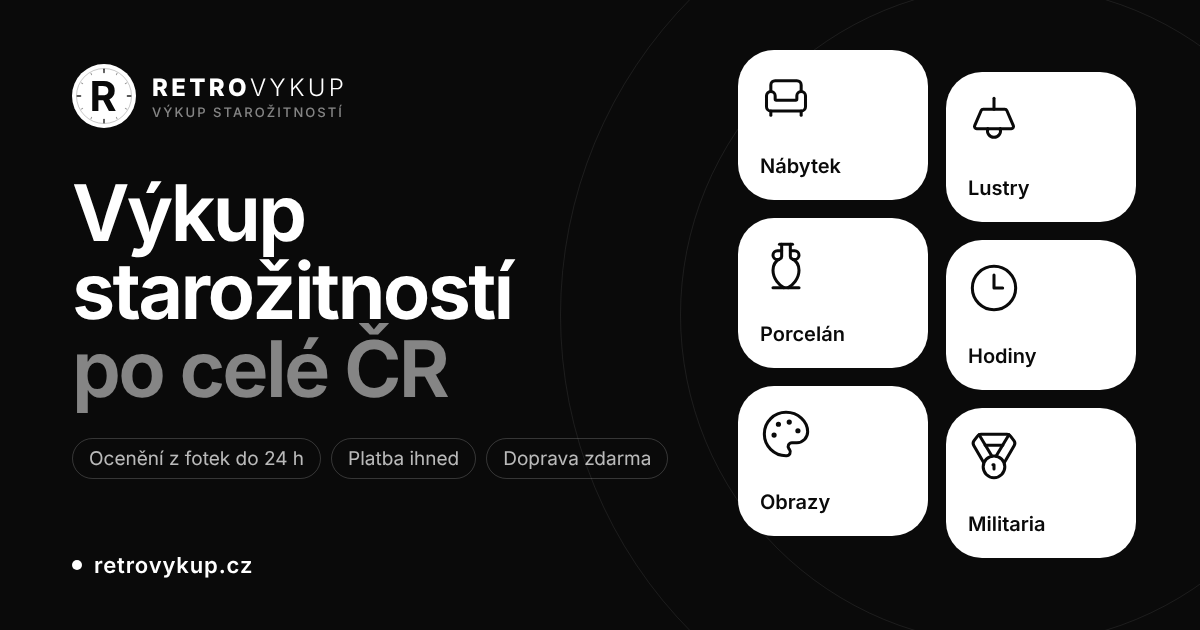
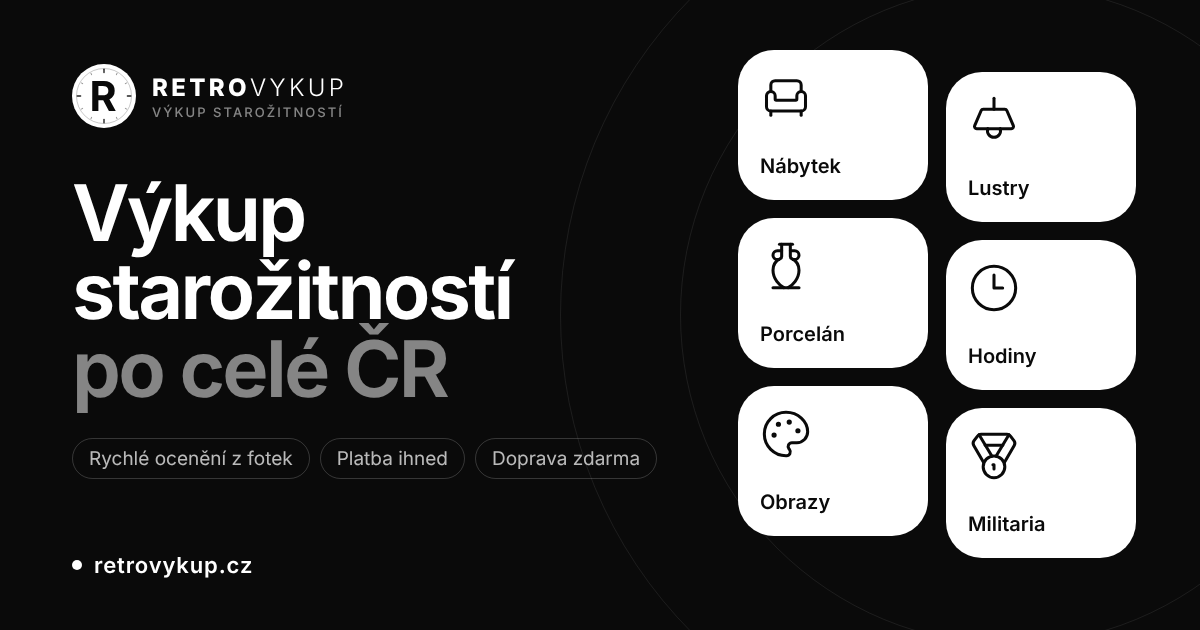
SEO a texty: bez „do 24 h“, nový titulek úvodu, doprava „přijedeme, nebo objednáme dopravu“
- Odstraněny všechny zmínky 24 h / 24 hodin (web, SEO popisy, manifest, og.png, brand kit)
- Titulek úvodu: Retrovykup.cz – výkup starožitností a retro. Snadno a rychle.
- Hero a popisy: Přijedeme si pro věci, nebo objednáme dopravu a vy jen zabalíte. Snadno a rychle.
- Texty měst a služeb sjednoceny („obratem“, „rychle“)

Claude-Session: https://claude.ai/code/session_018xVfVsJKPsHNQKo2b1Q4vg

Changed region(s): [[0.0617, 0.6937, 0.555, 0.754]]

diff --git a/src/data/cities.ts b/src/data/cities.ts
@@ -26,7 +26,7 @@ export const cities: City[] = [
     lat: 50.0755,
     lon: 14.4378,
     intro:
-      'Vykupujeme starožitnosti a retro předměty v celé Praze — z bytů po prarodičích, vil, půd i sklepů. Pošlete fotky, do 24 hodin máte nabídku a my si pro věci přijedeme.',
+      'Vykupujeme starožitnosti a retro předměty v celé Praze — z bytů po prarodičích, vil, půd i sklepů. Pošlete fotky a obratem máte nabídku. Přijedeme si pro věci, nebo objednáme dopravu a vy jen zabalíte. Snadno a rychle.',
     local: {
       title: 'Pražské byty skrývají poklady',
       text: 'Činžovní domy na Vinohradech, vily v Dejvicích nebo Bubenči i paneláky ze 70. let — každá pražská domácnost má jiný příběh. Často vykupujeme starožitný nábytek, obrazy, lustry, broušené sklo a design z období socialismu, který dnes zažívá velký návrat.',
@@ -54,7 +54,7 @@ export const cities: City[] = [
     lat: 49.1951,
     lon: 16.6068,
     intro:
-      'Výkup starožitností v Brně a okolí rychle a férově. Stačí pár fotek — ocenění pošleme do 24 hodin a pro předměty si přijedeme kamkoliv v Brně.',
+      'Výkup starožitností v Brně a okolí rychle a férově. Stačí pár fotek a obratem máte ocenění. Přijedeme si pro věci, nebo objednáme dopravu a vy jen zabalíte. Snadno a rychle.',
     local: {
       title: 'Brno — město funkcionalismu',
       text: 'Brno je proslulé funkcionalistickou architekturou a moravskou tradicí ohýbaného nábytku. Rádi vykoupíme thonetky, funkcionalistické kusy, chromový nábytek, keramiku i obrazy moravských autorů.',
@@ -82,7 +82,7 @@ export const cities: City[] = [
     lat: 49.8209,
     lon: 18.2625,
     intro:
-      'Výkup starožitností a retro předmětů v Ostravě a celém Moravskoslezském kraji. Ocenění z fotek do 24 hodin, vyzvednutí u vás doma a platba ihned.',
+      'Výkup starožitností a retro předmětů v Ostravě a celém Moravskoslezském kraji. Rychlé ocenění z fotek a platba ihned. Přijedeme si pro věci, nebo objednáme dopravu a vy jen zabalíte. Snadno a rychle.',
     local: {
       title: 'Hornická a průmyslová tradice',
       text: 'Ostrava žije průmyslovou historií. Vedle klasických starožitností rádi vykoupíme hornické a hutnické předměty, odznaky, militaria, retro elektroniku a nábytek ze sorely i z pozdějších desetiletí.',
@@ -110,7 +110,7 @@ export const cities: City[] = [
     lat: 49.7384,
     lon: 13.3736,
     intro:
-      'Výkup starožitností v Plzni a okolí. Pošlete fotky předmětů, do 24 hodin dostanete férovou nabídku a my si vše vyzvedneme.',
+      'Výkup starožitností v Plzni a okolí. Pošlete fotky předmětů a obratem dostanete férovou nabídku. Přijedeme si pro věci, nebo objednáme dopravu a vy jen zabalíte. Snadno a rychle.',
     local: {
       title: 'Pivo, Škodovka a Chodsko',
       text: 'Plzeňsko má bohatou pivovarskou a strojírenskou tradici. Vykupujeme pivní sklo, půllitry a reklamní předměty, věci spojené se Škodovkou i lidovou keramiku z Chodska a Šumavy.',
@@ -125,7 +125,7 @@ export const cities: City[] = [
       },
       {
         q: 'Mají cenu staré pivní půllitry a tácky?',
-        a: 'Často ano, hlavně starší kusy se značkou pivovaru. Pošlete fotky a ocenění dostanete do 24 hodin.',
+        a: 'Často ano, hlavně starší kusy se značkou pivovaru. Pošlete fotky a ocenění dostanete obratem.',
       },
     ],
   },
@@ -166,7 +166,7 @@ export const cities: City[] = [
     lat: 49.5938,
     lon: 17.2509,
     intro:
-      'Výkup starožitností v Olomouci a na celé Hané. Fotky stačí poslat přes formulář — nabídku máte do 24 hodin a pro věci si přijedeme.',
+      'Výkup starožitností v Olomouci a na celé Hané. Fotky stačí poslat přes formulář a nabídku máte obratem. Přijedeme si pro věci, nebo objednáme dopravu a vy jen zabalíte. Snadno a rychle.',
     local: {
       title: 'Hanácká metropole a bývalá pevnost',
       text: 'Olomouc byla po staletí pevnostním a posádkovým městem a centrem Hané. Vykupujeme militaria, uniformy a vyznamenání, lidové kroje a výšivky, starožitný nábytek, obrazy i hodiny.',
@@ -194,7 +194,7 @@ export const cities: City[] = [
     lat: 48.9745,
     lon: 14.4743,
     intro:
-      'Výkup starožitností v Českých Budějovicích a celých jižních Čechách. Pošlete fotky, nabídku máte do 24 hodin a pro věci si přijedeme.',
+      'Výkup starožitností v Českých Budějovicích a celých jižních Čechách. Pošlete fotky a nabídku máte obratem. Přijedeme si pro věci, nebo objednáme dopravu a vy jen zabalíte. Snadno a rychle.',
     local: {
       title: 'Jihočeská tradice',
       text: 'Budějovice proslavilo pivovarnictví i výroba psacích potřeb. Rádi vykoupíme pivní sklo a reklamní předměty, staré tužky a pastelky v plechových krabičkách, selský a malovaný nábytek z jihočeských vesnic i obrazy krajinářů.',
@@ -216,7 +216,7 @@ export const cities: City[] = [
     lat: 50.2092,
     lon: 15.8328,
     intro:
-      'Výkup starožitností v Hradci Králové a okolí. Ocenění z fotek do 24 hodin, vyzvednutí u vás doma a platba hned na místě.',
+      'Výkup starožitností v Hradci Králové a okolí. Rychlé ocenění z fotek a platba hned na místě. Přijedeme si pro věci, nebo objednáme dopravu a vy jen zabalíte. Snadno a rychle.',
     local: {
       title: 'Salon republiky',
       text: 'Hradec Králové je známý prvorepublikovou architekturou a hudební tradicí. Vykupujeme prvorepublikový a funkcionalistický nábytek, hudební nástroje, militaria spojená s bitvou roku 1866, obrazy i hodiny.',
@@ -238,7 +238,7 @@ export const cities: City[] = [
     lat: 50.6607,
     lon: 14.0323,
     intro:
-      'Vykupujeme starožitnosti v Ústí nad Labem a celém Ústeckém kraji. Fotky stačí poslat přes formulář — nabídku máte do 24 hodin.',
+      'Vykupujeme starožitnosti v Ústí nad Labem a celém Ústeckém kraji. Fotky stačí poslat přes formulář a nabídku máte obratem. Přijedeme si pro věci, nebo objednáme dopravu a vy jen zabalíte. Snadno a rychle.',
     local: {
       title: 'Severní Čechy plné příběhů',
       text: 'Severní Čechy mají bohatou průmyslovou a měšťanskou historii. Často vykupujeme porcelán, sklo, nábytek z vil a činžovních domů, hodiny, obrazy i retro předměty z období průmyslového rozmachu.',
@@ -260,7 +260,7 @@ export const cities: City[] = [
     lat: 50.0343,
     lon: 15.7812,
     intro:
-      'Výkup starožitností v Pardubicích a okolí — rychle, férově a diskrétně. Pošlete fotky a do 24 hodin máte nabídku.',
+      'Výkup starožitností v Pardubicích a okolí — rychle, férově a diskrétně. Pošlete fotky a obratem máte nabídku. Přijedeme si pro věci, nebo objednáme dopravu a vy jen zabalíte. Snadno a rychle.',
     local: {
       title: 'Město perníku a dostihů',
       text: 'Pardubice mají silnou průmyslovou i jezdeckou tradici. Vykupujeme retro elektroniku — rádia, gramofony, magnetofony — jezdecké a dostihové předměty, nábytek, obrazy i militaria.',
@@ -282,7 +282,7 @@ export const cities: City[] = [
     lat: 49.2265,
     lon: 17.6707,
     intro:
-      'Výkup starožitností ve Zlíně a celém Zlínském kraji. Ocenění z fotek do 24 hodin, odvoz zajistíme a zaplatíme ihned.',
+      'Výkup starožitností ve Zlíně a celém Zlínském kraji. Rychlé ocenění z fotek a platba ihned. Přijedeme si pro věci, nebo objednáme dopravu a vy jen zabalíte. Snadno a rychle.',
     local: {
       title: 'Baťovo funkcionalistické město',
       text: 'Zlín je symbolem baťovské éry a funkcionalismu a kraj má i tradici ohýbaného nábytku. Vykupujeme předměty z baťovského období, funkcionalistický a ohýbaný nábytek, lidové umění ze Slovácka a Valašska i obrazy.',
@@ -304,7 +304,7 @@ export const cities: City[] = [
     lat: 49.3961,
     lon: 15.5912,
     intro:
-      'Výkup starožitností v Jihlavě a na celé Vysočině. Pošlete fotky, nabídku máte do 24 hodin a pro věci si přijedeme.',
+      'Výkup starožitností v Jihlavě a na celé Vysočině. Pošlete fotky a nabídku máte obratem. Přijedeme si pro věci, nebo objednáme dopravu a vy jen zabalíte. Snadno a rychle.',
     local: {
       title: 'Stříbrné město Vysočiny',
       text: 'Jihlava vyrostla na těžbě stříbra a Vysočina je krajem skla a venkovských statků. Vykupujeme selský nábytek, broušené sklo, hodiny, obrazy, staré nářadí i předměty z chalup a půd.',
@@ -326,7 +326,7 @@ export const cities: City[] = [
     lat: 50.2319,
     lon: 12.8711,
     intro:
-      'Výkup starožitností v Karlových Varech a celém Karlovarském kraji. Ocenění z fotek do 24 hodin, vyzvednutí a platba na místě.',
+      'Výkup starožitností v Karlových Varech a celém Karlovarském kraji. Rychlé ocenění z fotek a platba na místě. Přijedeme si pro věci, nebo objednáme dopravu a vy jen zabalíte. Snadno a rychle.',
     local: {
       title: 'Lázně, sklo a porcelán',
       text: 'Karlovarsko je proslulé sklem, porcelánem a lázeňskou tradicí. Rádi vykoupíme sklo a porcelán z místních výroben, lázeňské pohárky, lázeňské suvenýry, starožitný nábytek i obrazy.',
@@ -348,7 +348,7 @@ export const cities: City[] = [
     lat: 50.1473,
     lon: 14.1029,
     intro:
-      'Výkup starožitností na Kladně a v okolí. Pošlete fotky, nabídku máte do 24 hodin — pro věci si přijedeme a zaplatíme ihned.',
+      'Výkup starožitností na Kladně a v okolí. Pošlete fotky a nabídku máte obratem. Přijedeme si pro věci, nebo objednáme dopravu a vy jen zabalíte. Snadno a rychle.',
     local: {
       title: 'Hornické a hutnické Kladno',
       text: 'Kladno má za sebou dlouhou historii dolů a oceláren. Vedle běžných starožitností rádi vykoupíme hornické a hutnické předměty, odznaky, militaria, retro nábytek a vybavení domácností z 50.–80. let.',
@@ -358,7 +358,7 @@ export const cities: City[] = [
     highlights: ['Hornické předměty', 'Odznaky', 'Retro nábytek', 'Militaria'],
     faq: [
       { q: 'Vykupujete i ve Slaném, Rakovníku a Kralupech?', a: 'Ano — celé Kladensko a okolí: Slaný, Unhošť, Stochov, Kralupy nad Vltavou, Rakovník i Beroun.' },
-      { q: 'Mají hodnotu hornické odznaky a předměty?', a: 'Často ano. Pošlete fotky a do 24 hodin dostanete ocenění.' },
+      { q: 'Mají hodnotu hornické odznaky a předměty?', a: 'Často ano. Pošlete fotky a ocenění dostanete obratem.' },
     ],
   },
   {

diff --git a/src/data/services.ts b/src/data/services.ts
@@ -46,7 +46,7 @@ export const services: Service[] = [
     ],
     steps: [
       { icon: 'camera', title: 'Vyfoťte a zvažte', text: 'Pošlete fotky, ideálně i detail puncu a přibližnou hmotnost.' },
-      { icon: 'scale', title: 'Předběžná cena', text: 'Podle ryzosti a aktuálního kurzu vám pošleme nabídku do 24 h.' },
+      { icon: 'scale', title: 'Předběžná cena', text: 'Podle ryzosti a aktuálního kurzu vám pošleme nabídku obratem.' },
       { icon: 'badge-check', title: 'Ověření', text: 'Při předání zlato převážíme a ověříme ryzost.' },
       { icon: 'banknote', title: 'Platba ihned', text: 'Hotově, nebo převodem na účet — ihned po ověření.' },
     ],
@@ -82,7 +82,7 @@ export const services: Service[] = [
         a: 'Nemusíte. U zlata a cenných předmětů preferujeme osobní předání — přijedeme za vámi.',
       },
     ],
-    cta: { title: 'Máte doma zlato?', text: 'Pošlete fotky a detail puncu — do 24 hodin víte, kolik za něj dostanete.' },
+    cta: { title: 'Máte doma zlato?', text: 'Pošlete fotky a detail puncu — obratem víte, kolik za něj dostanete.' },
     hallmarks: 'zlato',
   },
   {
@@ -91,7 +91,7 @@ export const services: Service[] = [
     short: 'Stříbrné příbory, mince, šperky, podnosy i slitky. Cena podle ryzosti a váhy.',
     seoTitle: 'Výkup stříbra – příbory, mince, šperky | Retrovykup',
     seoDesc:
-      'Výkup stříbra po celé ČR: stříbrné příbory, podnosy, mince, šperky, svícny i slitky. Férová cena podle ryzosti a váhy, ocenění do 24 h, platba ihned.',
+      'Výkup stříbra po celé ČR: stříbrné příbory, podnosy, mince, šperky, svícny i slitky. Férová cena podle ryzosti a váhy, rychlé ocenění, platba ihned.',
     eyebrow: 'Výkup stříbra po celé ČR',
     lines: ['Výkup', 'stříbra', '_férově._'],
     intro:
@@ -108,7 +108,7 @@ export const services: Service[] = [
     ],
     steps: [
       { icon: 'camera', title: 'Vyfoťte a zvažte', text: 'Pošlete fotky, detail puncu a přibližnou hmotnost.' },
-      { icon: 'scale', title: 'Předběžná cena', text: 'Podle ryzosti, váhy a hodnoty předmětu pošleme nabídku do 24 h.' },
+      { icon: 'scale', title: 'Předběžná cena', text: 'Podle ryzosti, váhy a hodnoty předmětu pošleme nabídku obratem.' },
       { icon: 'badge-check', title: 'Ověření', text: 'Při předání stříbro převážíme a ověříme ryzost.' },
       { icon: 'banknote', title: 'Platba ihned', text: 'Hotově, nebo převodem na účet — ihned po ověření.' },
     ],
@@ -140,7 +140,7 @@ export const services: Service[] = [
         a: 'Ano, při výkupu drahých kovů je ze zákona potřeba ověřit totožnost prodávajícího — stačí občanský průkaz.',
       },
     ],
-    cta: { title: 'Máte doma stříbro?', text: 'Pošlete fotky a detail puncu — do 24 hodin víte, kolik za něj dostanete.' },
+    cta: { title: 'Máte doma stříbro?', text: 'Pošlete fotky a detail puncu — obratem víte, kolik za něj dostanete.' },
     hallmarks: 'stribro',
   },
   {
@@ -149,11 +149,11 @@ export const services: Service[] = [
     short: 'Staré a vzácné knihy, první vydání, mapy i celé knihovny.',
     seoTitle: 'Výkup starých knih a knihoven | Retrovykup',
     seoDesc:
-      'Výkup starých a vzácných knih po celé ČR: první vydání, bibliofilie, knihy s podpisem, staré mapy, rukopisy i celé knihovny. Ocenění z fotek do 24 h.',
+      'Výkup starých a vzácných knih po celé ČR: první vydání, bibliofilie, knihy s podpisem, staré mapy, rukopisy i celé knihovny. Rychlé ocenění z fotek.',
     eyebrow: 'Výkup knih po celé ČR',
     lines: ['Výkup', 'starých knih', '_i knihoven._'],
     intro:
-      'Vykupujeme staré a vzácné knihy, bibliofilie, mapy i celé knihovny po prarodičích. Pošlete fotky hřbetů a titulních stran a do 24 hodin máte nabídku.',
+      'Vykupujeme staré a vzácné knihy, bibliofilie, mapy i celé knihovny po prarodičích. Pošlete fotky hřbetů a titulních stran a obratem máte nabídku.',
     quickLabel: 'knih',
     itemsTitle: 'Jaké knihy vykupujeme',
     items: [
@@ -166,7 +166,7 @@ export const services: Service[] = [
     ],
     steps: [
       { icon: 'camera', title: 'Vyfoťte knihy', text: 'Hřbety v knihovně, titulní stranu a tiráž u zajímavých kusů.' },
-      { icon: 'search', title: 'Ocenění', text: 'Posoudíme vydání, stav a vzácnost a do 24 h pošleme nabídku.' },
+      { icon: 'search', title: 'Ocenění', text: 'Posoudíme vydání, stav a vzácnost a obratem pošleme nabídku.' },
       { icon: 'truck', title: 'Odvoz zdarma', text: 'Celou knihovnu sbalíme a odvezeme, menší počet můžete poslat.' },
       { icon: 'banknote', title: 'Platba ihned', text: 'Hotově při převzetí, nebo převodem na účet.' },
     ],
@@ -194,7 +194,7 @@ export const services: Service[] = [
         a: 'Hřbety knih, u zajímavých kusů titulní stranu a tiráž (strana s rokem vydání a nákladem). Případně podpis nebo věnování.',
       },
     ],
-    cta: { title: 'Máte doma staré knihy?', text: 'Vyfoťte hřbety v knihovně a do 24 hodin víte, co má hodnotu.' },
+    cta: { title: 'Máte doma staré knihy?', text: 'Vyfoťte hřbety v knihovně a obratem víte, co má hodnotu.' },
   },
   {
     slug: 'vyklizeni-pozustalosti',

diff --git a/src/data/site.ts b/src/data/site.ts
@@ -9,7 +9,7 @@ export const site = {
   ogImage: '/og.png',
   ogImageAlt: 'Retrovykup — výkup starožitností po celé ČR: nábytek, lustry, porcelán, hodiny, obrazy, militaria',
   description:
-    'Výkup starožitností po celé ČR. Pošlete fotky a do 24 h máte férovou nabídku. Nábytek, obrazy, porcelán, lustry, hodiny, militaria. Platba ihned.',
+    'Výkup starožitností a retro do roku 1989. Pošlete fotky a obratem máte férovou nabídku. Přijedeme, nebo objednáme dopravu a vy jen zabalíte. Snadno a rychle.',
 };
 
 /** 💬 WhatsApp s předvyplněnou zprávou (volitelně s městem) */
@@ -91,14 +91,14 @@ export const categories = [
 
 export const benefits = [
   { icon: 'hand-coins', title: 'Férové ocenění', text: 'Nabídneme nejlepší možnou cenu podle aktuálního trhu.' },
-  { icon: 'clock', title: 'Odpověď do 24 h', text: 'Z fotek vám pošleme nabídku nejpozději do druhého dne.' },
+  { icon: 'zap', title: 'Rychlá odpověď', text: 'Z fotek vám obratem pošleme férovou nabídku.' },
   { icon: 'shield-check', title: 'Diskrétně', text: 'Vaše údaje ani fotky nikde nezveřejňujeme.' },
   { icon: 'truck', title: 'Doprava zdarma', text: 'Přijedeme osobně, nebo objednáme dopravu. Platíme ji my, vy nic.' },
 ];
 
 export const steps = [
   { icon: 'camera', title: 'Vyfoťte', text: 'Pár fotek z mobilu stačí. Vyplnění formuláře zabere minutu.' },
-  { icon: 'search', title: 'Ocenění', text: 'Předměty posoudíme a do 24 hodin pošleme férovou nabídku.' },
+  { icon: 'search', title: 'Ocenění', text: 'Předměty posoudíme a obratem pošleme férovou nabídku.' },
   { icon: 'truck', title: 'Doprava zdarma', text: 'Přijedeme si pro věci, nebo objednáme Zásilkovnu, Balíkovnu či TopTrans. Platíme my.' },
   { icon: 'banknote', title: 'Platba ihned', text: 'Hotově na místě, nebo převodem na účet. Jak chcete.' },
 ];
@@ -106,7 +106,7 @@ export const steps = [
 export const faq = [
   {
     q: 'Jak dlouho trvá ocenění?',
-    a: 'Obvykle do 24 hodin od odeslání formuláře. Čím lepší fotky a popis, tím přesnější nabídka.',
+    a: 'Snažíme se ozvat co nejdříve, obvykle obratem. Čím lepší fotky a popis, tím přesnější nabídka.',
   },
   {
     q: 'Jaké předměty vykupujete?',
